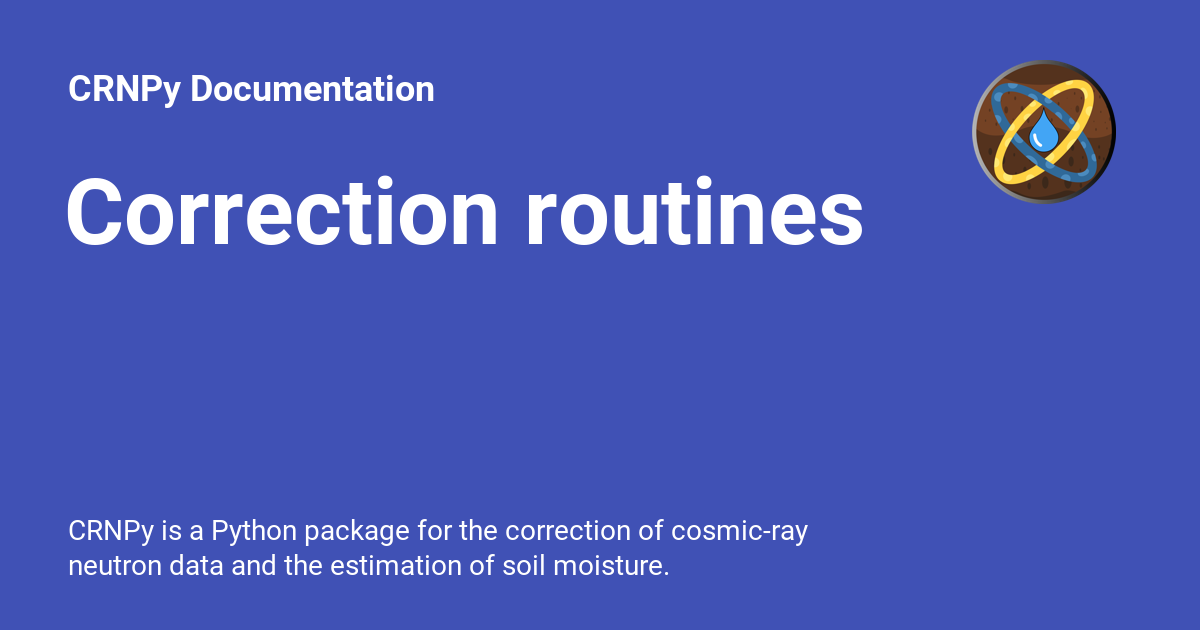
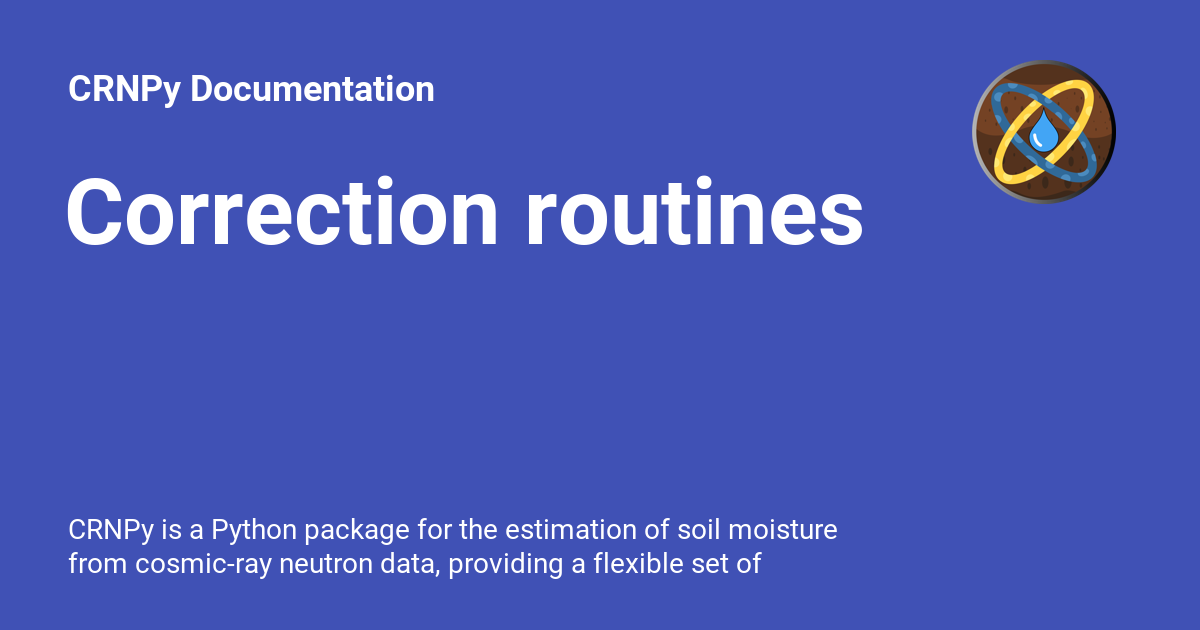
Deployed e4f62d5 with MkDocs version: 1.4.3

Changed region(s): [[0.0617, 0.8143, 0.7092, 0.9349]]

diff --git a/examples/rover/Hydroinnova_rover_example-Copy1/index.html b/examples/rover/Hydroinnova_rover_example-Copy1/index.html
@@ -6,7 +6,7 @@
       <meta charset="utf-8">
       <meta name="viewport" content="width=device-width,initial-scale=1">
       
-        <meta name="description" content="CRNPy is a Python package for the correction of cosmic-ray neutron data and the estimation of soil moisture.">
+        <meta name="description" content="CRNPy is a Python package for the estimation of soil moisture from cosmic-ray neutron data, providing a flexible set of correction routines.">
       
       
       
@@ -54,7 +54,7 @@
       
         <meta  property="og:title"  content="Hydroinnova rover example Copy1 - CRNPy Documentation" >
       
-        <meta  property="og:description"  content="CRNPy is a Python package for the correction of cosmic-ray neutron data and the estimation of soil moisture." >
+        <meta  property="og:description"  content="CRNPy is a Python package for the estimation of soil moisture from cosmic-ray neutron data, providing a flexible set of correction routines." >
       
         <meta  property="og:image"  content="https://soilwater.github.io/crnpy/assets/images/social/examples/rover/Hydroinnova_rover_example-Copy1.png" >
       
@@ -70,7 +70,7 @@
       
         <meta  name="twitter:title"  content="Hydroinnova rover example Copy1 - CRNPy Documentation" >
       
-        <meta  name="twitter:description"  content="CRNPy is a Python package for the correction of cosmic-ray neutron data and the estimation of soil moisture." >
+        <meta  name="twitter:description"  content="CRNPy is a Python package for the estimation of soil moisture from cosmic-ray neutron data, providing a flexible set of correction routines." >
       
         <meta  name="twitter:image"  content="https://soilwater.github.io/crnpy/assets/images/social/examples/rover/Hydroinnova_rover_example-Copy1.png" >
       

diff --git a/examples/calibration/calibration/index.html b/examples/calibration/calibration/index.html
@@ -6,7 +6,7 @@
       <meta charset="utf-8">
       <meta name="viewport" content="width=device-width,initial-scale=1">
       
-        <meta name="description" content="CRNPy is a Python package for the correction of cosmic-ray neutron data and the estimation of soil moisture.">
+        <meta name="description" content="CRNPy is a Python package for the estimation of soil moisture from cosmic-ray neutron data, providing a flexible set of correction routines.">
       
       
       
@@ -58,7 +58,7 @@
       
         <meta  property="og:title"  content="Device calibration - CRNPy Documentation" >
       
-        <meta  property="og:description"  content="CRNPy is a Python package for the correction of cosmic-ray neutron data and the estimation of soil moisture." >
+        <meta  property="og:description"  content="CRNPy is a Python package for the estimation of soil moisture from cosmic-ray neutron data, providing a flexible set of correction routines." >
       
         <meta  property="og:image"  content="https://soilwater.github.io/crnpy/assets/images/social/examples/calibration/calibration.png" >
       
@@ -74,7 +74,7 @@
       
         <meta  name="twitter:title"  content="Device calibration - CRNPy Documentation" >
       
-        <meta  name="twitter:description"  content="CRNPy is a Python package for the correction of cosmic-ray neutron data and the estimation of soil moisture." >
+        <meta  name="twitter:description"  content="CRNPy is a Python package for the estimation of soil moisture from cosmic-ray neutron data, providing a flexible set of correction routines." >
       
         <meta  name="twitter:image"  content="https://soilwater.github.io/crnpy/assets/images/social/examples/calibration/calibration.png" >
       

diff --git a/examples/rover/Hydroinnova_rover_example/index.html b/examples/rover/Hydroinnova_rover_example/index.html
@@ -6,7 +6,7 @@
       <meta charset="utf-8">
       <meta name="viewport" content="width=device-width,initial-scale=1">
       
-        <meta name="description" content="CRNPy is a Python package for the correction of cosmic-ray neutron data and the estimation of soil moisture.">
+        <meta name="description" content="CRNPy is a Python package for the estimation of soil moisture from cosmic-ray neutron data, providing a flexible set of correction routines.">
       
       
       
@@ -58,7 +58,7 @@
       
         <meta  property="og:title"  content="Example 2 - CRNPy Documentation" >
       
-        <meta  property="og:description"  content="CRNPy is a Python package for the correction of cosmic-ray neutron data and the estimation of soil moisture." >
+        <meta  property="og:description"  content="CRNPy is a Python package for the estimation of soil moisture from cosmic-ray neutron data, providing a flexible set of correction routines." >
       
         <meta  property="og:image"  content="https://soilwater.github.io/crnpy/assets/images/social/examples/rover/Hydroinnova_rover_example.png" >
       
@@ -74,7 +74,7 @@
       
         <meta  name="twitter:title"  content="Example 2 - CRNPy Documentation" >
       
-        <meta  name="twitter:description"  content="CRNPy is a Python package for the correction of cosmic-ray neutron data and the estimation of soil moisture." >
+        <meta  name="twitter:description"  content="CRNPy is a Python package for the estimation of soil moisture from cosmic-ray neutron data, providing a flexible set of correction routines." >
       
         <meta  name="twitter:image"  content="https://soilwater.github.io/crnpy/assets/images/social/examples/rover/Hydroinnova_rover_example.png" >
       

diff --git a/examples/stationary/example_RDT_station/index.html b/examples/stationary/example_RDT_station/index.html
@@ -6,7 +6,7 @@
       <meta charset="utf-8">
       <meta name="viewport" content="width=device-width,initial-scale=1">
       
-        <meta name="description" content="CRNPy is a Python package for the correction of cosmic-ray neutron data and the estimation of soil moisture.">
+        <meta name="description" content="CRNPy is a Python package for the estimation of soil moisture from cosmic-ray neutron data, providing a flexible set of correction routines.">
       
       
       
@@ -58,7 +58,7 @@
       
         <meta  property="og:title"  content="Example 1 - CRNPy Documentation" >
       
-        <meta  property="og:description"  content="CRNPy is a Python package for the correction of cosmic-ray neutron data and the estimation of soil moisture." >
+        <meta  property="og:description"  content="CRNPy is a Python package for the estimation of soil moisture from cosmic-ray neutron data, providing a flexible set of correction routines." >
       
         <meta  property="og:image"  content="https://soilwater.github.io/crnpy/assets/images/social/examples/stationary/example_RDT_station.png" >
       
@@ -74,7 +74,7 @@
       
         <meta  name="twitter:title"  content="Example 1 - CRNPy Documentation" >
       
-        <meta  name="twitter:description"  content="CRNPy is a Python package for the correction of cosmic-ray neutron data and the estimation of soil moisture." >
+        <meta  name="twitter:description"  content="CRNPy is a Python package for the estimation of soil moisture from cosmic-ray neutron data, providing a flexible set of correction routines." >
       
         <meta  name="twitter:image"  content="https://soilwater.github.io/crnpy/assets/images/social/examples/stationary/example_RDT_station.png" >
       

diff --git a/examples/overview/index.html b/examples/overview/index.html
@@ -6,7 +6,7 @@
       <meta charset="utf-8">
       <meta name="viewport" content="width=device-width,initial-scale=1">
       
-        <meta name="description" content="CRNPy is a Python package for the correction of cosmic-ray neutron data and the estimation of soil moisture.">
+        <meta name="description" content="CRNPy is a Python package for the estimation of soil moisture from cosmic-ray neutron data, providing a flexible set of correction routines.">
       
       
       
@@ -58,7 +58,7 @@
       
         <meta  property="og:title"  content="CRNPy Examples Overview - CRNPy Documentation" >
       
-        <meta  property="og:description"  content="CRNPy is a Python package for the correction of cosmic-ray neutron data and the estimation of soil moisture." >
+        <meta  property="og:description"  content="CRNPy is a Python package for the estimation of soil moisture from cosmic-ray neutron data, providing a flexible set of correction routines." >
       
         <meta  property="og:image"  content="https://soilwater.github.io/crnpy/assets/images/social/examples/overview.png" >
       
@@ -74,7 +74,7 @@
       
         <meta  name="twitter:title"  content="CRNPy Examples Overview - CRNPy Documentation" >
       
-        <meta  name="twitter:description"  content="CRNPy is a Python package for the correction of cosmic-ray neutron data and the estimation of soil moisture." >
+        <meta  name="twitter:description"  content="CRNPy is a Python package for the estimation of soil moisture from cosmic-ray neutron data, providing a flexible set of correction routines." >
       
         <meta  name="twitter:image"  content="https://soilwater.github.io/crnpy/assets/images/social/examples/overview.png" >
       

diff --git a/correction_routines/index.html b/correction_routines/index.html
@@ -6,7 +6,7 @@
       <meta charset="utf-8">
       <meta name="viewport" content="width=device-width,initial-scale=1">
       
-        <meta name="description" content="CRNPy is a Python package for the correction of cosmic-ray neutron data and the estimation of soil moisture.">
+        <meta name="description" content="CRNPy is a Python package for the estimation of soil moisture from cosmic-ray neutron data, providing a flexible set of correction routines.">
       
       
       
@@ -58,7 +58,7 @@
       
         <meta  property="og:title"  content="Correction routines - CRNPy Documentation" >
       
-        <meta  property="og:description"  content="CRNPy is a Python package for the correction of cosmic-ray neutron data and the estimation of soil moisture." >
+        <meta  property="og:description"  content="CRNPy is a Python package for the estimation of soil moisture from cosmic-ray neutron data, providing a flexible set of correction routines." >
       
         <meta  property="og:image"  content="https://soilwater.github.io/crnpy/assets/images/social/correction_routines.png" >
       
@@ -74,7 +74,7 @@
       
         <meta  name="twitter:title"  content="Correction routines - CRNPy Documentation" >
       
-        <meta  name="twitter:description"  content="CRNPy is a Python package for the correction of cosmic-ray neutron data and the estimation of soil moisture." >
+        <meta  name="twitter:description"  content="CRNPy is a Python package for the estimation of soil moisture from cosmic-ray neutron data, providing a flexible set of correction routines." >
       
         <meta  name="twitter:image"  content="https://soilwater.github.io/crnpy/assets/images/social/correction_routines.png" >
       

diff --git a/reference/index.html b/reference/index.html
@@ -6,7 +6,7 @@
       <meta charset="utf-8">
       <meta name="viewport" content="width=device-width,initial-scale=1">
       
-        <meta name="description" content="CRNPy is a Python package for the correction of cosmic-ray neutron data and the estimation of soil moisture.">
+        <meta name="description" content="CRNPy is a Python package for the estimation of soil moisture from cosmic-ray neutron data, providing a flexible set of correction routines.">
       
       
       
@@ -56,7 +56,7 @@
       
         <meta  property="og:title"  content="Reference - CRNPy Documentation" >
       
-        <meta  property="og:description"  content="CRNPy is a Python package for the correction of cosmic-ray neutron data and the estimation of soil moisture." >
+        <meta  property="og:description"  content="CRNPy is a Python package for the estimation of soil moisture from cosmic-ray neutron data, providing a flexible set of correction routines." >
       
         <meta  property="og:image"  content="https://soilwater.github.io/crnpy/assets/images/social/reference.png" >
       
@@ -72,7 +72,7 @@
       
         <meta  name="twitter:title"  content="Reference - CRNPy Documentation" >
       
-        <meta  name="twitter:description"  content="CRNPy is a Python package for the correction of cosmic-ray neutron data and the estimation of soil moisture." >
+        <meta  name="twitter:description"  content="CRNPy is a Python package for the estimation of soil moisture from cosmic-ray neutron data, providing a flexible set of correction routines." >
       
         <meta  name="twitter:image"  content="https://soilwater.github.io/crnpy/assets/images/social/reference.png" >
       

diff --git a/index.html b/index.html
@@ -6,7 +6,7 @@
       <meta charset="utf-8">
       <meta name="viewport" content="width=device-width,initial-scale=1">
       
-        <meta name="description" content="CRNPy is a Python package for the correction of cosmic-ray neutron data and the estimation of soil moisture.">
+        <meta name="description" content="CRNPy is a Python package for the estimation of soil moisture from cosmic-ray neutron data, providing a flexible set of correction routines.">
       
       
       
@@ -56,7 +56,7 @@
       
         <meta  property="og:title"  content="Home" >
       
-        <meta  property="og:description"  content="CRNPy is a Python package for the correction of cosmic-ray neutron data and the estimation of soil moisture." >
+        <meta  property="og:description"  content="CRNPy is a Python package for the estimation of soil moisture from cosmic-ray neutron data, providing a flexible set of correction routines." >
       
         <meta  property="og:image"  content="https://soilwater.github.io/crnpy/assets/images/social/index.png" >
       
@@ -72,7 +72,7 @@
       
         <meta  name="twitter:title"  content="Home" >
       
-        <meta  name="twitter:description"  content="CRNPy is a Python package for the correction of cosmic-ray neutron data and the estimation of soil moisture." >
+        <meta  name="twitter:description"  content="CRNPy is a Python package for the estimation of soil moisture from cosmic-ray neutron data, providing a flexible set of correction routines." >
       
         <meta  name="twitter:image"  content="https://soilwater.github.io/crnpy/assets/images/social/index.png" >
       

diff --git a/404.html b/404.html
@@ -6,7 +6,7 @@
       <meta charset="utf-8">
       <meta name="viewport" content="width=device-width,initial-scale=1">
       
-        <meta name="description" content="CRNPy is a Python package for the correction of cosmic-ray neutron data and the estimation of soil moisture.">
+        <meta name="description" content="CRNPy is a Python package for the estimation of soil moisture from cosmic-ray neutron data, providing a flexible set of correction routines.">
       
       
       
